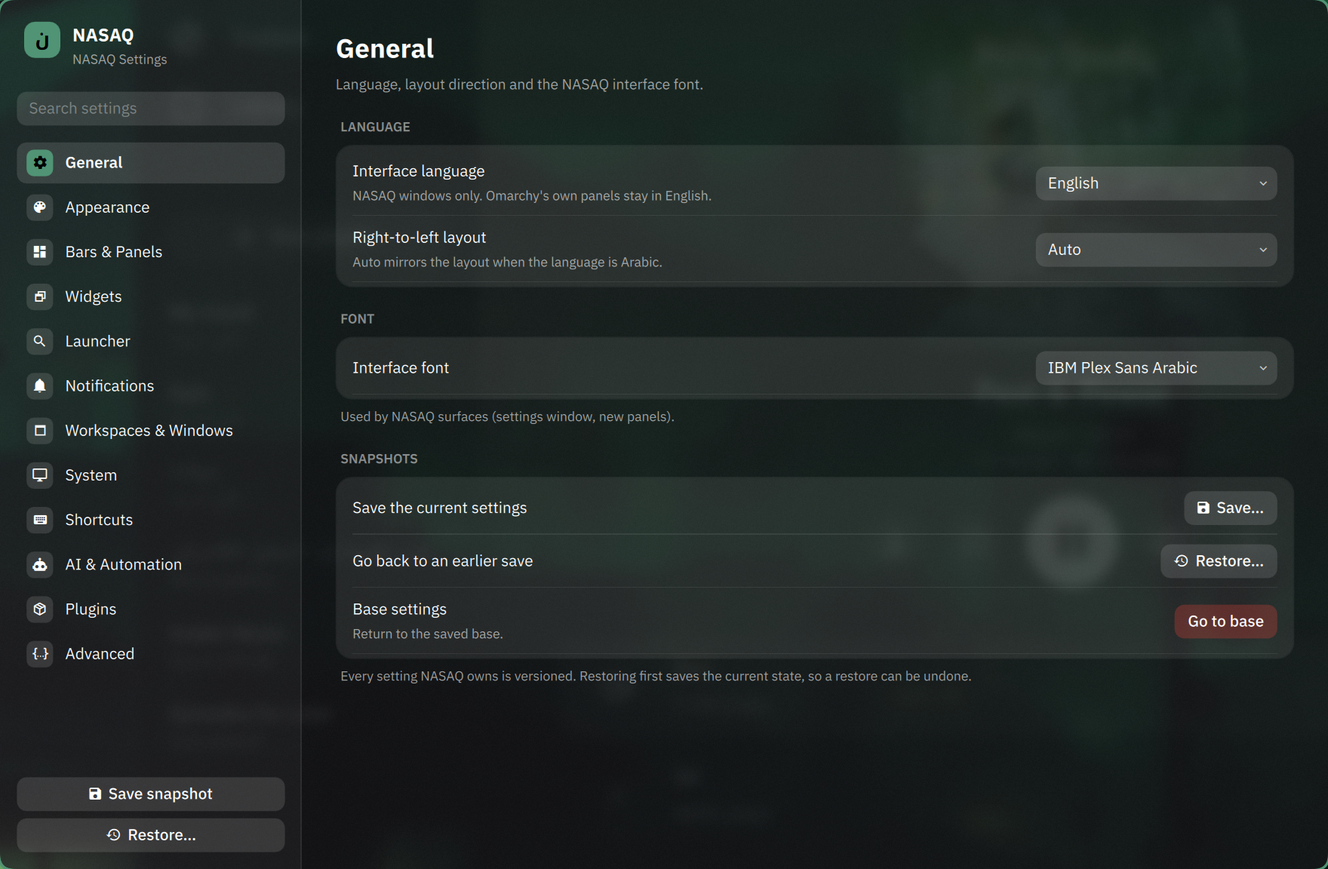
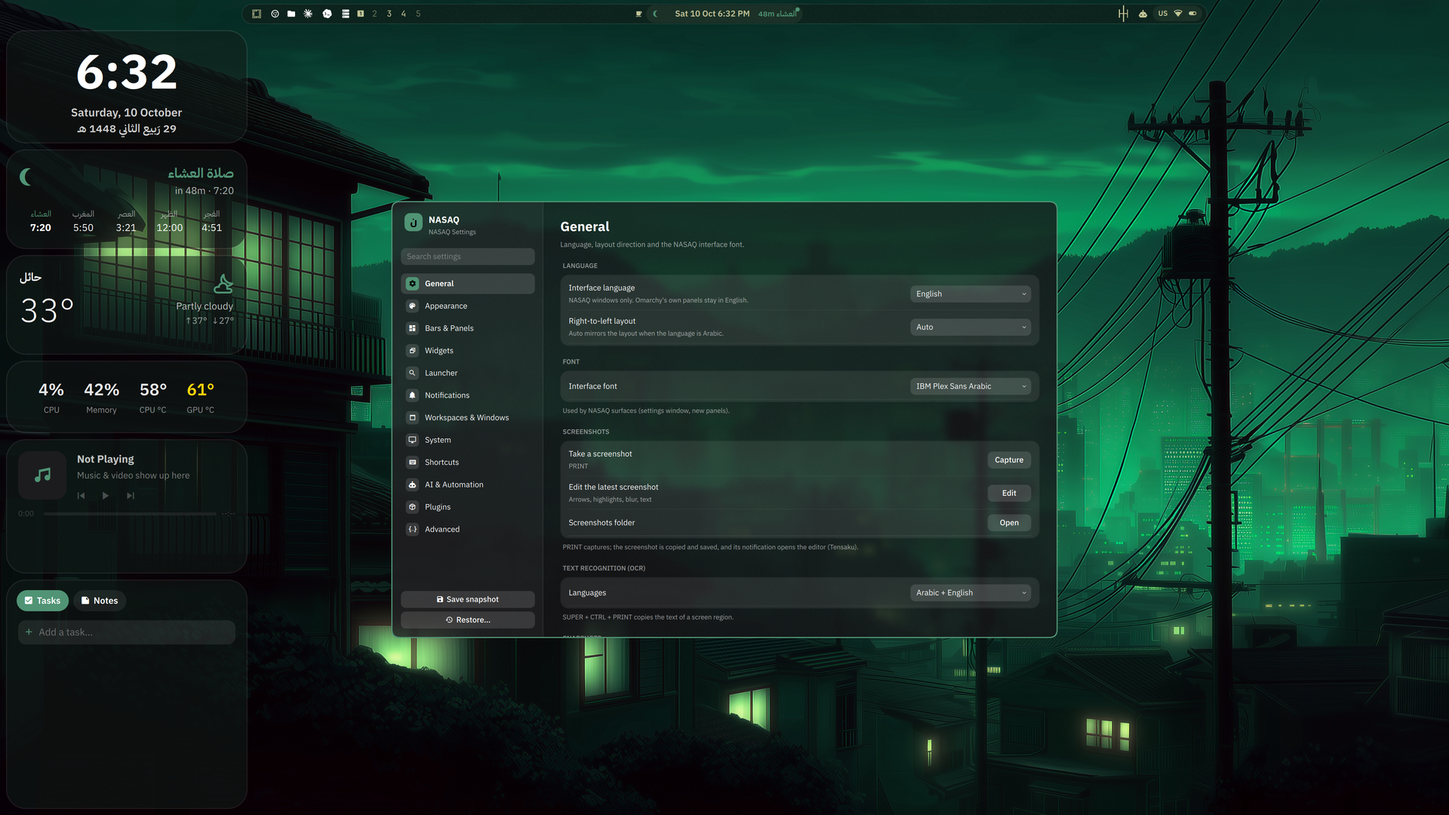
Release 1.0.0: English README with screenshots, Arabic README moved to README.ar.md
Claude-Session: https://claude.ai/code/session_01Th6LzbJRgpCzg9RKCrnzcn

diff --git a/README.md b/README.md
@@ -1,75 +1,198 @@
-<div dir="rtl">
+# NASAQ (نَسَق)
 
-# نَسَق — NASAQ
+**An opinionated desktop layer for [Omarchy](https://omarchy.org), by GHS (Ghazi Hamad Alsaif).**
 
-**طبقة واجهة متكاملة فوق [Omarchy](https://omarchy.org) بتوجهات GHS (غازي حمد السيف).**
-كما أن Omarchy مبني على توجهات DHH، نَسَق مبني على توجهات صاحبه: واجهة واحدة متناسقة، بلمسة macOS، تحترم العربية، وتُضبط كلها من نافذة إعدادات واحدة.
+Version 1.0 · Omarchy 4.0.4+ · Hyprland 0.56+ · Interface in English or Arabic
 
-![إعدادات نَسَق](docs/screenshots/settings.png)
+[العربية](README.ar.md)
 
-## الفلسفة
+![NASAQ desktop](docs/screenshots/desktop.png)
 
-- **لا شِل ثانٍ.** نَسَق مجموعة إضافات تعمل داخل شل Omarchy نفسه (Quickshell)، بلا خدمة مكررة للإشعارات أو القفل أو الخمول.
-- **لا نلمس Omarchy.** لا تعديل على `/usr/share/omarchy`؛ كل شيء في ملفات المستخدم، وتحديثات Omarchy تمر بأمان مع فحص تلقائي بعد كل تحديث.
-- **كل شيء من واجهة.** كل خاصية لها مفتاح حقيقي في نافذة الإعدادات (SUPER + ALT + N)، وكل إضافة تُشغَّل وتُطفأ من صفحة الإضافات.
-- **العربية أولًا.** اختصارات تعمل والتخطيط عربي، OCR عربي، ترجمة عبر Claude، أوقات الصلاة والتاريخ الهجري، وواجهة عربية من اليمين لليسار (تجريبية).
+## The name
 
-## ماذا يضيف
+**نَسَق** (*nasaq*) is an Arabic word for *order, harmony, a consistent pattern*: things arranged so they follow one line and fit together. That is the whole idea. Omarchy already gives you a beautiful Arch + Hyprland desktop shaped by DHH's taste. NASAQ is one person's taste layered on top of it: a macOS-flavoured, Arabic-aware desktop where every piece looks and behaves like the others, and everything is configured from one window.
 
-| الجزء | ما يفعله |
+## What NASAQ is (and is not)
+
+- **A layer, not a fork.** NASAQ is a set of plugins that run inside Omarchy's own Quickshell process. There is no second shell, no second notification daemon, no second lock screen. Omarchy keeps updating normally.
+- **Nothing under `/usr/share/omarchy` is touched.** NASAQ lives in `~/.config/omarchy/plugins`, `~/.config/hypr/nasaq-*.lua`, `~/.local/bin` and `~/.config/omarchy/nasaq`. A post-update check warns you if an Omarchy update changed something NASAQ builds on.
+- **Reversible.** The installer backs up every file it changes. `uninstall.sh` puts them back.
+- **One settings window.** `SUPER + ALT + N` opens NASAQ Settings: 12 pages with real controls for every feature, plus a Plugins page that turns any shell plugin on or off, NASAQ's, Omarchy's or a community one.
+- **Arabic first, English default.** The interface ships in English. Switch it to Arabic (with right-to-left layout) from General settings. Shortcuts keep working under the Arabic keyboard layout, OCR reads Arabic, and the desktop knows the Hijri date and prayer times.
+
+## Features, with screenshots
+
+### The bar
+
+![Bar](docs/screenshots/bar.png)
+
+Left: the Omarchy menu, pinned app launchers, and the **workspace numbers**. The active workspace is highlighted; workspaces that hold windows are shown in full, empty ones are dimmed. Centre: the Dynamic Island with the clock and the next prayer countdown. Right: tray, keyboard layout, Wi-Fi, and battery/power state. The bar is Omarchy's bar; NASAQ adds its widgets to it through `shell.json`, so `omarchy bar` commands still work.
+
+### Dynamic Island
+
+![Dynamic Island](docs/screenshots/island.png)
+
+The island in the top centre is a living element, in the spirit of Apple's Dynamic Island. Collapsed, it shows the time and the countdown to the next prayer. Click it (or hover, if you prefer) and it expands into a card with the Gregorian and Hijri dates, the five prayer times for your city, the weather, what is playing, and a stopwatch and pomodoro timer. Volume and brightness OSDs, and notifications, appear by morphing the island itself rather than as separate pop-ups.
+
+### Notifications and Notification Center
+
+![Notification](docs/screenshots/notification.png)
+
+A notification grows out of the island, with the app icon, title and body, then shrinks back. Per-app rules let you mute, group, or keep an app's notifications quiet while Do Not Disturb is on.
+
+![Notification Center](docs/screenshots/notification-center.png)
+
+`SUPER + N` slides the Notification Center in from the right: history grouped by app, clear-all, and a Do Not Disturb switch.
+
+### Control Center
+
+![Control Center](docs/screenshots/control-center.png)
+
+`SUPER + ALT + C`, or the hot corner, opens a macOS-style Control Center: Wi-Fi, Bluetooth, keyboard layout, Do Not Disturb, display brightness with auto-brightness, sound with an output picker, a Windows page (transparency, blur, dim, rounding, borders, shadows), power profile, and lock / sleep / restart / shut down.
+
+### Desktop widgets
+
+![Desktop widgets](docs/screenshots/desktop-widgets.png)
+
+A column of glass widgets sits on the desktop behind your windows: a large clock with the Gregorian and Hijri dates, the prayer card with the next prayer highlighted and a progress bar to it, weather for your city, a system card with CPU, memory and temperatures, Now Playing with media controls, and a Tasks / Notes card. `SUPER + ALT + D` hides and shows the column. Each widget can be turned off in Settings > Widgets.
+
+### Spotlight
+
+![Spotlight](docs/screenshots/spotlight.png)
+
+`ALT + SPACE` opens Spotlight. Type to find apps (ranked by how often and how recently you open them), open windows, and files, with a Quick Look pane on the right that previews images, text and documents and shows size and date. Spotlight also does arithmetic, currency and unit conversion, and web search. Start a line with `?` or `؟` and the rest is a question for your default Omarchy agent (Claude, Codex, OpenCode, Copilot or Gemini, whichever `omarchy default agent` points at); the answer appears inline.
+
+### Mission Control
+
+![Mission Control](docs/screenshots/mission-control.png)
+
+`SUPER + TAB`, a three-finger swipe up, or the top-left hot corner opens Mission Control: live previews of every window on the current workspace, with the workspace strip at the top. Click a window to focus it, drag it to another workspace, or middle-click to close it.
+
+### App Switcher
+
+![App Switcher](docs/screenshots/app-switcher.png)
+
+`ALT + TAB` cycles windows in most-recently-used order with live previews, exactly like macOS: hold ALT, press TAB to move, release ALT to switch. Releasing ALT switches instantly with zero delay. Hyprland never reports when a modifier key is released, so NASAQ reads the Alt key directly from the kernel (evdev); that needs one udev rule, which the installer offers to add. Without it the switcher falls back to a short timer.
+
+### Hot corners
+
+Push the pointer into a corner to trigger an action. Defaults: top-left Mission Control, top-right Notification Center, bottom-left show desktop, bottom-right lock. Each corner is set from Settings > Workspaces & Windows.
+
+### Scratchpads
+
+![Scratchpad](docs/screenshots/scratchpad.png)
+
+`` SUPER + ` `` drops a terminal over whatever you are doing and hides it again with the same key. Any app can be a scratchpad: add one in Settings > Workspaces & Windows with a command, a key and a size.
+
+### NASAQ Settings
+
+![Settings](docs/screenshots/settings.png)
+
+`SUPER + ALT + N`. Pages: General (interface language and direction, font, screenshots, OCR languages), Appearance, Bars & Panels, Widgets, Launcher, Notifications, Workspaces & Windows, System, Shortcuts, AI & Automation, Plugins, Advanced. Every setting takes effect immediately. **Save snapshot** records all of NASAQ's files in a local git repo; **Restore** goes back to any snapshot, and a restore can itself be undone.
+
+![Plugins page](docs/screenshots/settings-plugins.png)
+
+The Plugins page lists every plugin the shell knows about, grouped as NASAQ, Omarchy and community, with a switch for each, a rescan button, and "Add a plugin from git". Plugins the rest of NASAQ depends on are marked Required.
+
+![Shortcuts page](docs/screenshots/settings-shortcuts.png)
+
+The Shortcuts page lists all shortcuts (Omarchy's and NASAQ's). Each can be changed to a different key or turned off, without editing Lua by hand and without losing Omarchy's updates: NASAQ writes a small remap layer that is loaded before Omarchy's defaults. The Arabic-layout switch regenerates every letter shortcut on key codes so `SUPER + W`, `SUPER + Q` and friends keep working while the keyboard is in Arabic.
+
+### More
+
+- **Lock screen** with separate password and fingerprint flows, matching the theme.
+- **Power**: an Apple-style Low Power Mode and per-profile behaviour (Saver, Balanced, Performance).
+- **Display**: resolution, scale and position with a 15-second automatic revert, auto-brightness from the ambient sensor or the clock.
+- **Translation**: `SUPER + CTRL + ALT + L` translates the selected text; add SHIFT to OCR and translate a region of the screen. Both use your default Omarchy agent.
+- **Universal clipboard**: `SUPER + C / V / X` copy, paste and cut in every app, including terminals.
+- **Quit app**: `SUPER + Q` closes the whole application, not just one window.
+- **Fix speakers**: `SUPER + ALT + A` rebinds the audio card when the speakers go silent (iMac and some laptops).
+- **Window rules** and **automations** (time- or event-triggered commands), editable from Settings.
+- **Screensaver modes**: Matrix, image, or Omarchy's stock ASCII.
+- **Theme-aware**: every NASAQ surface follows the active Omarchy theme and updates when you change it.
+- **Screen frame** (test, off by default): a soft rounded frame in the theme colour drawn inside the window gaps.
+
+## Shortcuts
+
+| Keys | Action |
 |---|---|
-| الجزيرة الديناميكية | الساعة والتاريخ الهجري، الصلاة القادمة والتذكير بها، الآن يُشغَّل، مؤشرات الصوت والسطوع، الإشعارات، ساعة إيقاف، بومودورو |
-| Spotlight (ALT + SPACE) | التطبيقات بترتيب الاستخدام، النوافذ المفتوحة، الملفات مع معاينة سريعة، حاسبة وعملات ووحدات، بحث الويب، و«? سؤال» لـ Claude |
-| Mission Control (SUPER + TAB) | كل المساحات والنوافذ بمعاينات حية |
-| مبدّل التطبيقات (ALT + TAB) | النوافذ بترتيب آخر استخدام مع معاينات |
-| مركز التحكم (SUPER + ALT + C) | Wi-Fi وBluetooth والصوت والسطوع والطاقة وشكل النوافذ |
-| عمود الودجات | الساعة، الصلاة، الطقس، المواعيد القادمة (iCal)، بطاقة النظام بالحرارة، الآن يُشغَّل، الملاحظات والمهام |
-| الإشعارات | تخرج من الجزيرة، مع قواعد لكل تطبيق، تجميع، وعدم إزعاج |
-| الاختصارات | محرر يغيّر أو يطفئ أي اختصار في Omarchy، وتحويل كل اختصارات الحروف لتعمل والتخطيط عربي |
-| النوافذ | زوايا ساخنة، Scratchpads (طرفية منسدلة بـ SUPER + `)، قواعد نوافذ، شفافية وتمويه وحركات |
-| النظام | الشاشات مع تراجع تلقائي، السطوع التلقائي، الأجهزة، الصحة، لقطات الإعدادات والاسترجاع |
-| الذكاء الاصطناعي | ترجمة وتلخيص النص المحدد أو منطقة من الشاشة (SUPER + CTRL + ALT + L)، أتمتة مجدولة |
+| `SUPER + ALT + N` | NASAQ Settings |
+| `ALT + SPACE` | Spotlight |
+| `ALT + TAB` | App Switcher |
+| `SUPER + TAB` | Mission Control |
+| `SUPER + N` | Notification Center |
+| `SUPER + ALT + C` | Control Center |
+| `SUPER + ALT + D` | Show / hide desktop widgets |
+| `` SUPER + ` `` | Terminal scratchpad |
+| `SUPER + Q` | Quit app |
+| `SUPER + C / V / X` | Universal copy / paste / cut |
+| `SUPER + CTRL + ALT + L` | Translate selection |
+| `SUPER + CTRL + ALT + SHIFT + L` | Translate a screen region (OCR) |
+| `SUPER + ALT + A` | Fix speakers |
+| `?` / `؟` in Spotlight | Ask the default agent |
 
-## التثبيت
+All of Omarchy's own shortcuts stay as they are, and any of them can be changed from the Shortcuts page.
 
-يتطلب Omarchy 4.0.4 أو أحدث.
+## Requirements
+
+- Omarchy 4.0.4 or newer (Hyprland 0.56+, Quickshell 0.3+). NASAQ uses Hyprland's Lua configuration and Omarchy's plugin system.
+- Optional packages the installer offers: `tesseract-data-ara` (Arabic OCR), `cava` (audio visualiser), `nwg-displays` (graphical display layout), `kitty` and `ptyxis` (scratchpad terminals).
+- Optional: one of the Omarchy agents (`claude`, `codex`, `opencode`, `copilot`, `gemini`) for Spotlight questions and translation.
+- Prayer times come from [AlAdhan](https://aladhan.com), weather from [Open-Meteo](https://open-meteo.com), currency rates from [open.er-api.com](https://open.er-api.com). All are free and need no key.
+
+## Install
 
 ```bash
-git clone https://github.com/<you>/nasaq ~/.local/share/nasaq
+git clone https://github.com/Ghazi-Ai/nasaq ~/.local/share/nasaq
 cd ~/.local/share/nasaq
 ./install.sh
 ```
 
-- يأخذ نسخة احتياطية من كل ملف يعدّله (`shell.json` وملفات Hyprland الثلاثة والقائمة).
-- يضيف سطرًا واحدًا في كل من `hyprland.lua` و`looknfeel.lua` و`bindings.lua`، وتبقى بقية ملفاتك كما هي.
-- يعرض تثبيت الأدوات الاختيارية: `tesseract-data-ara matugen cava nwg-displays kitty ptyxis`.
+The installer:
 
-ثم افتح الإعدادات بـ **SUPER + ALT + N** واختر مدينتك لأوقات الصلاة من الجزيرة.
+1. checks the Omarchy version and backs up `shell.json`, your three Hyprland Lua files and the menu extension into `~/.local/state/nasaq/`;
+2. copies the plugins, scripts, hooks, sounds and defaults into your home directory;
+3. adds one `pcall(dofile, ...)` line to each of `hyprland.lua`, `looknfeel.lua` and `bindings.lua` so NASAQ's layers load with yours;
+4. adds NASAQ's widgets to the bar and NASAQ's entries to the Omarchy menu;
+5. offers the optional packages and the udev rule for the App Switcher (`sudo` for that one step);
+6. restarts the shell.
 
-## التحديث والإزالة
+`./install.sh --yes` accepts every optional step. When it finishes, press `SUPER + ALT + N`.
+
+Set your city for prayer times and weather in Settings > Widgets; pick the interface language in Settings > General.
+
+## Update
 
 ```bash
-./update.sh           # يسحب آخر نسخة ويحدّث الملفات، وتبقى إعداداتك
-./uninstall.sh        # يرجع ملفاتك كما كانت قبل التثبيت
-./uninstall.sh --purge   # ويحذف إعدادات نَسَق أيضًا
+cd ~/.local/share/nasaq && ./update.sh
 ```
 
-## أين تُحفظ الأشياء
+`update.sh` pulls the latest release and runs `install.sh --update`, which refreshes NASAQ's files and leaves your bar layout, menu and settings alone.
 
-| المسار | المحتوى |
+## Uninstall
+
+```bash
+cd ~/.local/share/nasaq && ./uninstall.sh          # restores the backed-up files
+cd ~/.local/share/nasaq && ./uninstall.sh --purge  # also removes NASAQ's settings
+```
+
+## Where things live
+
+| Path | What |
 |---|---|
-| `~/.config/omarchy/plugins/nasaq.*` | إضافات نَسَق |
-| `~/.config/omarchy/nasaq/settings.json` | كل إعدادات نَسَق |
-| `~/.config/omarchy/nasaq/secrets.json` | عناوين التقويم السرية (لا تدخل اللقطات ولا التصدير) |
-| `~/.config/hypr/nasaq-*.lua` | وحدات Hyprland الخاصة بنَسَق (بعضها يُولَّد من الإعدادات) |
-| `~/.local/bin/nasaq-*` | أدوات سطر الأوامر |
+| `~/.config/omarchy/plugins/nasaq.*` | the 21 plugins |
+| `~/.config/omarchy/nasaq/` | settings.json, island.json, windows.json, help |
+| `~/.config/hypr/nasaq-*.lua` | generated Hyprland layers (binds, rules, corners, scratchpads, Arabic binds, remaps) |
+| `~/.local/bin/nasaq-*` | helper scripts (settings snapshots, display, translation, scratchpads, ...) |
+| `~/.local/state/nasaq/` | install backups |
+| `~/.local/share/nasaq-settings/` | the snapshot repository |
 
-## الواجهة بالعربية
+## Languages
 
-![الإعدادات بالعربية](docs/screenshots/settings-arabic.png)
+The NASAQ interface is available in **English** (default) and **Arabic**, with automatic right-to-left layout for Arabic. Omarchy's own panels stay in English. Arabic OCR and the Hijri calendar work regardless of the interface language.
 
-## الترخيص
+## Credits and licence
 
-MIT. أجزاء من الإضافات بدأت كنسخ من إضافات Omarchy (MIT)؛ التفاصيل في [NOTICE.md](NOTICE.md).
+NASAQ is built on [Omarchy](https://omarchy.org) by DHH and contributors, [Hyprland](https://hyprland.org) and [Quickshell](https://quickshell.org). The Matrix screensaver, the island and several widgets take ideas from the Omarchy community plugins credited in [NOTICE.md](NOTICE.md).
 
-</div>
+MIT licence. See [LICENSE](LICENSE) and [CHANGELOG.md](CHANGELOG.md).

diff --git a/README.ar.md b/README.ar.md
@@ -1,0 +1,77 @@
+<div dir="rtl">
+
+# نَسَق — NASAQ
+
+[English](README.md)
+
+**طبقة واجهة متكاملة فوق [Omarchy](https://omarchy.org) بتوجهات GHS (غازي حمد السيف).**
+كما أن Omarchy مبني على توجهات DHH، نَسَق مبني على توجهات صاحبه: واجهة واحدة متناسقة، بلمسة macOS، تحترم العربية، وتُضبط كلها من نافذة إعدادات واحدة.
+
+![إعدادات نَسَق](docs/screenshots/settings.png)
+
+## الفلسفة
+
+- **لا شِل ثانٍ.** نَسَق مجموعة إضافات تعمل داخل شل Omarchy نفسه (Quickshell)، بلا خدمة مكررة للإشعارات أو القفل أو الخمول.
+- **لا نلمس Omarchy.** لا تعديل على `/usr/share/omarchy`؛ كل شيء في ملفات المستخدم، وتحديثات Omarchy تمر بأمان مع فحص تلقائي بعد كل تحديث.
+- **كل شيء من واجهة.** كل خاصية لها مفتاح حقيقي في نافذة الإعدادات (SUPER + ALT + N)، وكل إضافة تُشغَّل وتُطفأ من صفحة الإضافات.
+- **العربية أولًا.** اختصارات تعمل والتخطيط عربي، OCR عربي، ترجمة عبر Claude، أوقات الصلاة والتاريخ الهجري، وواجهة عربية من اليمين لليسار (تجريبية).
+
+## ماذا يضيف
+
+| الجزء | ما يفعله |
+|---|---|
+| الجزيرة الديناميكية | الساعة والتاريخ الهجري، الصلاة القادمة والتذكير بها، الآن يُشغَّل، مؤشرات الصوت والسطوع، الإشعارات، ساعة إيقاف، بومودورو |
+| Spotlight (ALT + SPACE) | التطبيقات بترتيب الاستخدام، النوافذ المفتوحة، الملفات مع معاينة سريعة، حاسبة وعملات ووحدات، بحث الويب، و«? سؤال» لـ Claude |
+| Mission Control (SUPER + TAB) | كل المساحات والنوافذ بمعاينات حية |
+| مبدّل التطبيقات (ALT + TAB) | النوافذ بترتيب آخر استخدام مع معاينات |
+| مركز التحكم (SUPER + ALT + C) | Wi-Fi وBluetooth والصوت والسطوع والطاقة وشكل النوافذ |
+| عمود الودجات | الساعة، الصلاة، الطقس، المواعيد القادمة (iCal)، بطاقة النظام بالحرارة، الآن يُشغَّل، الملاحظات والمهام |
+| الإشعارات | تخرج من الجزيرة، مع قواعد لكل تطبيق، تجميع، وعدم إزعاج |
+| الاختصارات | محرر يغيّر أو يطفئ أي اختصار في Omarchy، وتحويل كل اختصارات الحروف لتعمل والتخطيط عربي |
+| النوافذ | زوايا ساخنة، Scratchpads (طرفية منسدلة بـ SUPER + `)، قواعد نوافذ، شفافية وتمويه وحركات |
+| النظام | الشاشات مع تراجع تلقائي، السطوع التلقائي، الأجهزة، الصحة، لقطات الإعدادات والاسترجاع |
+| الذكاء الاصطناعي | ترجمة وتلخيص النص المحدد أو منطقة من الشاشة (SUPER + CTRL + ALT + L)، أتمتة مجدولة |
+
+## التثبيت
+
+يتطلب Omarchy 4.0.4 أو أحدث.
+
+```bash
+git clone https://github.com/<you>/nasaq ~/.local/share/nasaq
+cd ~/.local/share/nasaq
+./install.sh
+```
+
+- يأخذ نسخة احتياطية من كل ملف يعدّله (`shell.json` وملفات Hyprland الثلاثة والقائمة).
+- يضيف سطرًا واحدًا في كل من `hyprland.lua` و`looknfeel.lua` و`bindings.lua`، وتبقى بقية ملفاتك كما هي.
+- يعرض تثبيت الأدوات الاختيارية: `tesseract-data-ara matugen cava nwg-displays kitty ptyxis`.
+
+ثم افتح الإعدادات بـ **SUPER + ALT + N** واختر مدينتك لأوقات الصلاة من الجزيرة.
+
+## التحديث والإزالة
+
+```bash
+./update.sh           # يسحب آخر نسخة ويحدّث الملفات، وتبقى إعداداتك
+./uninstall.sh        # يرجع ملفاتك كما كانت قبل التثبيت
+./uninstall.sh --purge   # ويحذف إعدادات نَسَق أيضًا
+```
+
+## أين تُحفظ الأشياء
+
+| المسار | المحتوى |
+|---|---|
+| `~/.config/omarchy/plugins/nasaq.*` | إضافات نَسَق |
+| `~/.config/omarchy/nasaq/settings.json` | كل إعدادات نَسَق |
+| `~/.config/omarchy/nasaq/secrets.json` | عناوين التقويم السرية (لا تدخل اللقطات ولا التصدير) |
+| `~/.config/hypr/nasaq-*.lua` | وحدات Hyprland الخاصة بنَسَق (بعضها يُولَّد من الإعدادات) |
+| `~/.local/bin/nasaq-*` | أدوات سطر الأوامر |
+
+## الواجهة بالعربية
+
+![الإعدادات بالعربية](docs/screenshots/settings-arabic.png)
+
+## الترخيص
+
+MIT. أجزاء من الإضافات بدأت كنسخ من إضافات Omarchy (MIT)؛ التفاصيل في [NOTICE.md](NOTICE.md).
+
+</div>

diff --git a/CHANGELOG.md b/CHANGELOG.md
@@ -1,13 +1,13 @@
 # Changelog
 
-## 0.1.0 — 2026-10-10
-First release of NASAQ (نَسَق) for Omarchy 4.0.4.
+## 1.0.0 — 2026-10-10
+First public release of NASAQ (نَسَق) for Omarchy 4.0.4.
 - One settings window (SUPER + ALT + N) with 12 pages and a Plugins page that turns any shell plugin on or off.
 - Dynamic Island: clock, Hijri date, prayer times, now playing, OSD, notifications, stopwatch, pomodoro.
-- Spotlight: apps by frecency, open windows, files with Quick Look, calculator, currency, units, web, and “? ask Claude”.
+- Spotlight: apps by frecency, open windows, files with Quick Look, calculator, currency, units, web, and “? ask the default agent” (also ؟).
 - Mission Control, App Switcher (ALT + TAB with live previews), hot corners, named scratchpads, window rules.
 - Desktop widget column: clock, prayer, weather, up next (iCal), system card with temperatures, now playing, notes.
 - Notifications from the island with per-app rules and grouping.
-- Arabic: shortcuts that work under the Arabic layout, Arabic OCR, translation via Claude, Arabic interface (test).
+- Arabic: shortcuts that work under the Arabic layout, Arabic OCR, translation via the default Omarchy agent, Arabic interface (test).
 - Shortcut editor that can move or turn off any Omarchy shortcut, safely and reversibly.
 - Display settings with automatic revert, auto brightness, devices, health checks, snapshots and restore.
